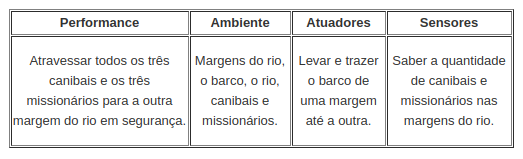
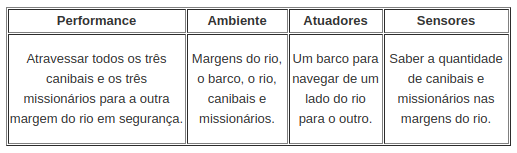
Atualização imagem do PEAS

diff --git a/main.py b/main.py
@@ -3,7 +3,7 @@
 
 """
 Missionários e Canibais
-Autores: Felipe Maxuel / Humberto Bianchini
+Autores: Felipe Maxsuel / Humberto Bianchini
 """
 
 # Formato = [Missionario, Canibais, Margem]
